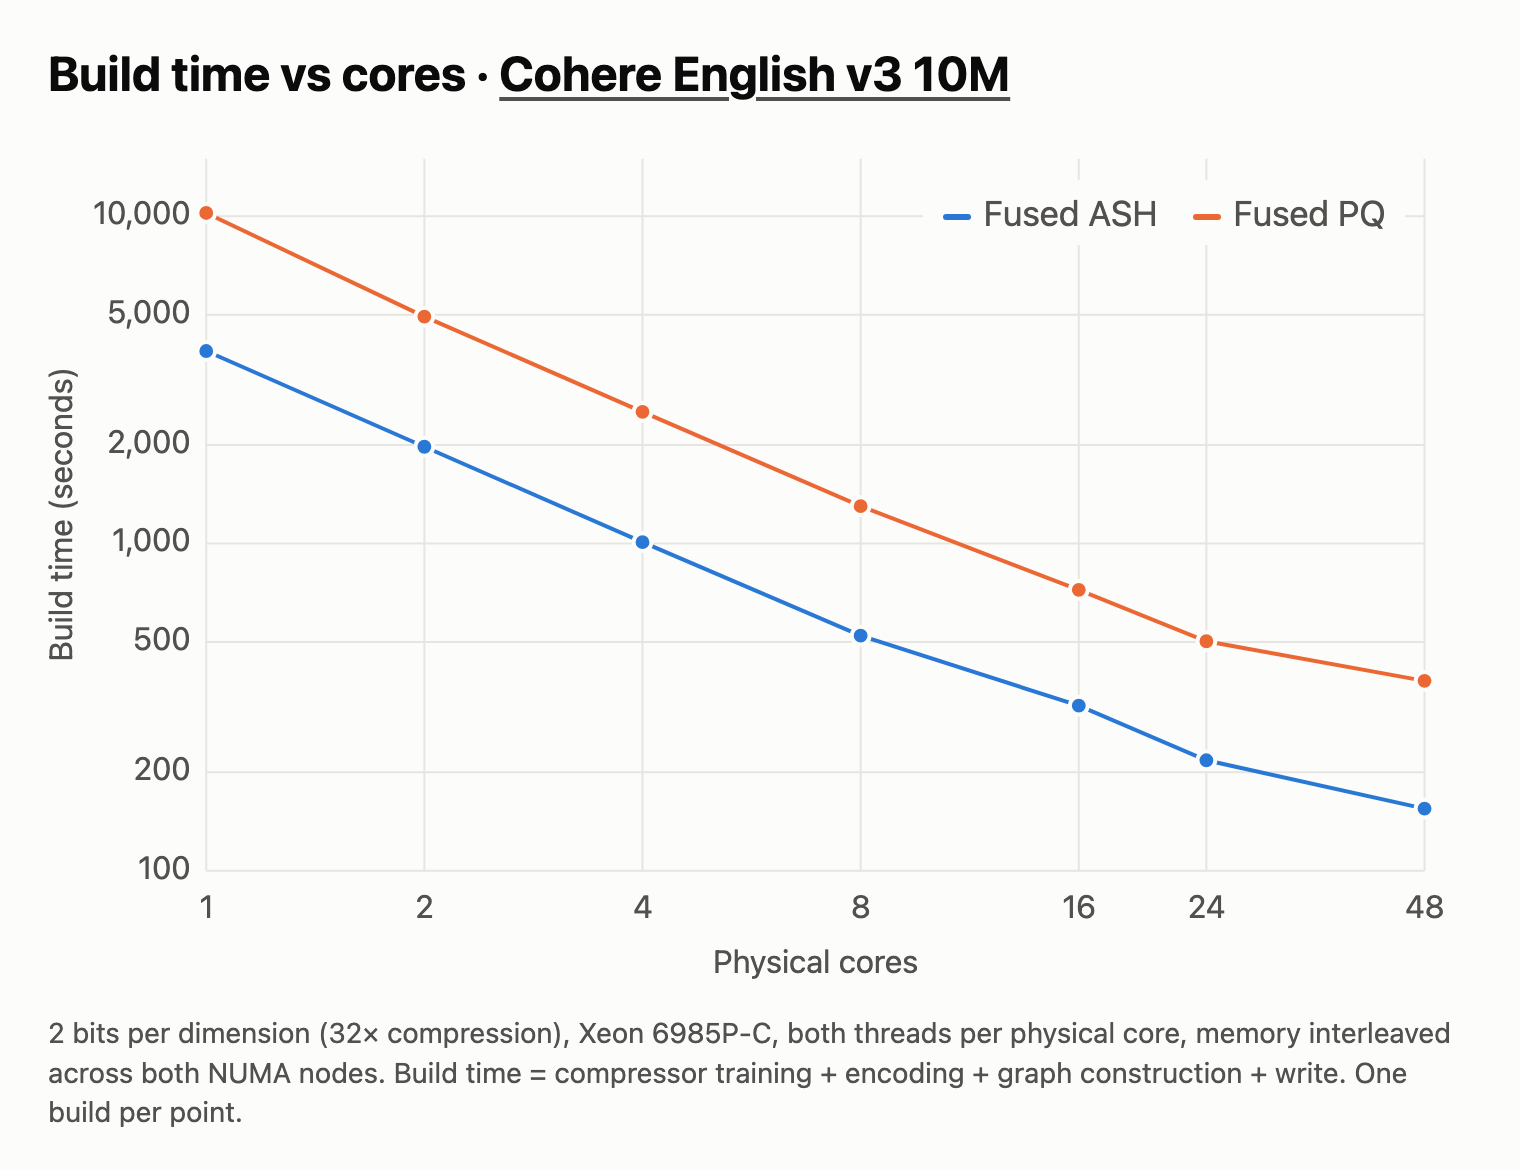
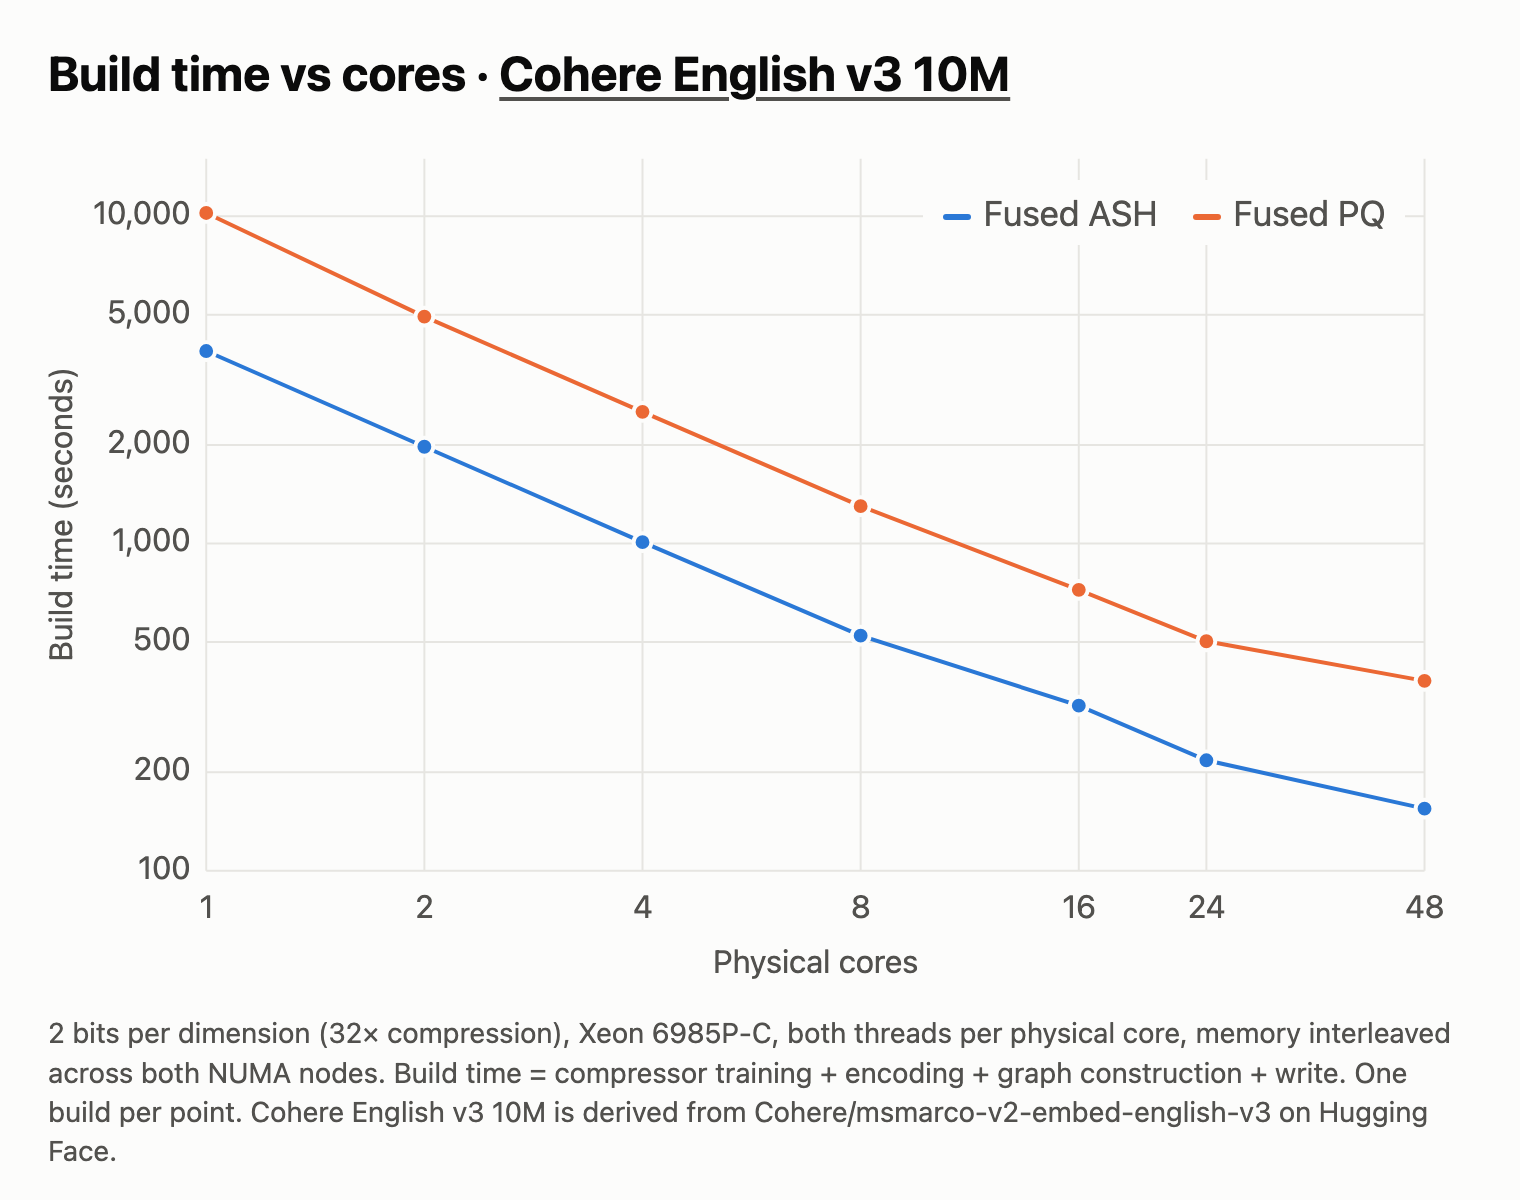
Lead the README with the build-time and memory plots
Explain quantization and fused indexes, link PQ, ASH and NVQ, and replace the old scaling images.

diff --git a/README.md b/README.md
@@ -3,9 +3,10 @@
 JVector is a Java library for approximate nearest neighbor (ANN) vector search. It builds graph
 indexes that combine an HNSW-style hierarchy with Vamana (the algorithm behind DiskANN) in every
 layer, can be built concurrently and incrementally, and can be searched from disk with compressed
-vectors. Product quantization (PQ) is the stable, widely deployed way to compress them. The
-experimental Asymmetric Scalar Hashing (ASH) quantizer is more accurate at the same code size and
-builds indexes faster. JVector targets Java 11 and uses SIMD acceleration on newer JVMs.
+vectors. [Product quantization (PQ)](https://doi.org/10.1109/TPAMI.2010.57) is the stable, widely deployed way to compress them. The
+experimental [Asymmetric Scalar Hashing (ASH)](https://dl.acm.org/doi/10.1145/3799682.3841072) quantizer is more accurate at the same code size and
+builds indexes faster. JVector targets newer JVMs, using native SIMD kernels on Java 22 and later,
+and also supports Java 11.
 
 - [Why graph indexes](#why-graph-indexes)
 - [How JVector searches](#how-jvector-searches)
@@ -35,9 +36,15 @@ dataset up front.
 ## How JVector searches
 
 JVector's graph has an in-memory hierarchy of upper layers for fast navigation and a base layer that
-can live on disk. Construction uses nonblocking concurrency control and scales linearly with cores:
+can live on disk. Construction uses nonblocking concurrency control, so it scales with cores.
 
-![JVector scales linearly as thread count increases](https://github.com/jbellis/jvector/assets/42158/f0127bfc-6c45-48b9-96ea-95b2120da0d9)
+Graph indexes need their vectors close at hand, and full-precision vectors soon outgrow memory:
+10 million 1,024-dimension vectors take about 41 GB. JVector compresses them with vector
+quantization, here 32× to about 1.3 GB, and the quantizer also sets much of the build time. With the
+same code size, JVector's new ASH quantizer builds indexes 2.3 to 2.6 times faster than product
+quantization (PQ); see [Choosing a quantizer](#choosing-a-quantizer).
+
+![Build time vs cores for fused ASH and fused PQ](./docs/images/ash-pq-build-time-vs-cores.png)
 
 Searches run in two passes. The first pass traverses the graph using compact, approximate scores
 from a quantizer; the second reranks the best candidates with a more accurate representation stored
@@ -47,14 +54,14 @@ in the index:
 | --- | --- |
 | Traversal | Product quantization (PQ), optionally with anisotropic weighting; binary quantization (BQ); Asymmetric Scalar Hashing (ASH, experimental); or full-precision vectors |
 | Fused traversal | Fused PQ or fused ASH: each node's adjacency list carries its neighbors' codes, so the codes are read with the graph instead of held in memory |
-| Reranking | Full-precision (FP32) vectors or NVQ, a high-accuracy non-uniform quantization |
+| Reranking | Full-precision (FP32) vectors or [NVQ](https://arxiv.org/abs/2509.18471), a high-accuracy non-uniform quantization |
 
 [This two-pass design reduces memory use and latency while preserving accuracy](https://thenewstack.io/why-vector-size-matters/).
 JVector can also use two-pass searches while *building* an index, so indexes larger than memory can
 be constructed, and searches stay logarithmic within a single index instead of merging results
 from many:
 
-![Much larger indexes](https://github.com/jbellis/jvector/assets/42158/34cb8094-68fa-4dc3-b3ce-4582fdbd77e1)
+![Vectors that fit in 32 GB of memory, uncompressed and 32× compressed](./docs/images/vectors-in-32gb.png)
 
 ## Getting started
 
@@ -103,6 +110,24 @@ Integrators should also read:
 
 ## Choosing a quantizer
 
+A quantizer compresses each vector to a short code. Scoring a query against a code is much cheaper
+than against a full vector, and the codes for a large index fit in memory or in a small part of
+each disk read. Building a graph is a long series of searches: each new vector searches the graph
+for its neighbors. JVector can score these searches with the codes, so a quantizer's training,
+encoding and scoring speeds set much of an index's build time.
+
+A *fused* index stores each node's neighbors' codes in that node's on-disk record, next to its
+adjacency list. A search then reads the codes it needs along with the graph, instead of holding every
+code in memory; see [Building and serving larger-than-memory indexes](./docs/larger-than-memory-indexes.md).
+
+[Product quantization (PQ)](https://doi.org/10.1109/TPAMI.2010.57) splits each vector into
+subvectors and replaces each with the nearest entry of a codebook learned for it (see
+[the PQ tutorial](./docs/tutorials/3-larger-than-memory-tutorial.md)).
+[Asymmetric Scalar Hashing (ASH)](https://dl.acm.org/doi/10.1145/3799682.3841072), new and
+experimental, reduces each vector's dimension with a learned projection and quantizes each projected
+dimension to a few bits (see [ASH](#ash)). The build-time plot above compares fused ASH and fused PQ
+with the same 133-byte codes, from training through writing the index.
+
 | Quantizer | Use it for | Notes |
 | --- | --- | --- |
 | **PQ** | Graph traversal; the stable default | Fused or in memory; any similarity; optional anisotropic weighting |
@@ -115,17 +140,12 @@ Integrators should also read:
 ASH is experimental: its public types are marked `@Experimental`, and their API may change between
 releases. PQ remains the recommended choice when stability matters most.
 
-ASH (Asymmetric Scalar Hashing) reduces the dimension of database vectors with a learned orthonormal
-projection, then scalar-quantizes each projected dimension to a few bits, while keeping queries in
-their original form. At the same code size it is more accurate than additive and scalar quantizers,
+ASH (Asymmetric Scalar Hashing; [paper](https://dl.acm.org/doi/10.1145/3799682.3841072)) reduces the dimension of database
+vectors with a learned orthonormal projection, then scalar-quantizes each projected dimension to a
+few bits, while keeping queries in their original form. At the same code size it is more accurate than additive and scalar quantizers,
 trains and encodes quickly, and scores with SIMD lookups. JVector is the first graph index to support
 it. On large datasets at matched code sizes, fused ASH builds faster than fused PQ, is more
 accurate, and searches faster in nearly every case; see [ASH performance](./docs/ash-performance.md).
-
-![Build time vs cores for fused ASH and fused PQ](./docs/images/ash-pq-build-time-vs-cores.png)
-
-Dataset: Cohere English v3 10M, derived from
-[Cohere/msmarco-v2-embed-english-v3](https://huggingface.co/datasets/Cohere/msmarco-v2-embed-english-v3).
 
 Start with the HelloASHWorld programs above, then:
 
@@ -231,6 +251,7 @@ projection, INT8 on other VNNI CPUs, and batch encoding. Each falls back to a po
   [DiskANN](https://suhasjs.github.io/files/diskann_neurips19.pdf) papers, and
   [a higher-level explainer](https://www.datastax.com/guides/hierarchical-navigable-small-worlds)
 - [ASH: Asymmetric Scalar Hashing With Learned Dimensionality Reduction for High-Fidelity Vector Quantization](https://dl.acm.org/doi/10.1145/3799682.3841072), Tepper and Willke (CIKM 2026)
+- [Product quantization](https://doi.org/10.1109/TPAMI.2010.57), Jégou, Douze and Schmid (TPAMI 2011)
 - [NVQ](https://arxiv.org/abs/2509.18471)
 - [Anisotropic PQ](https://arxiv.org/abs/1908.10396)
 - [Quicker ADC](https://arxiv.org/abs/1812.09162)
